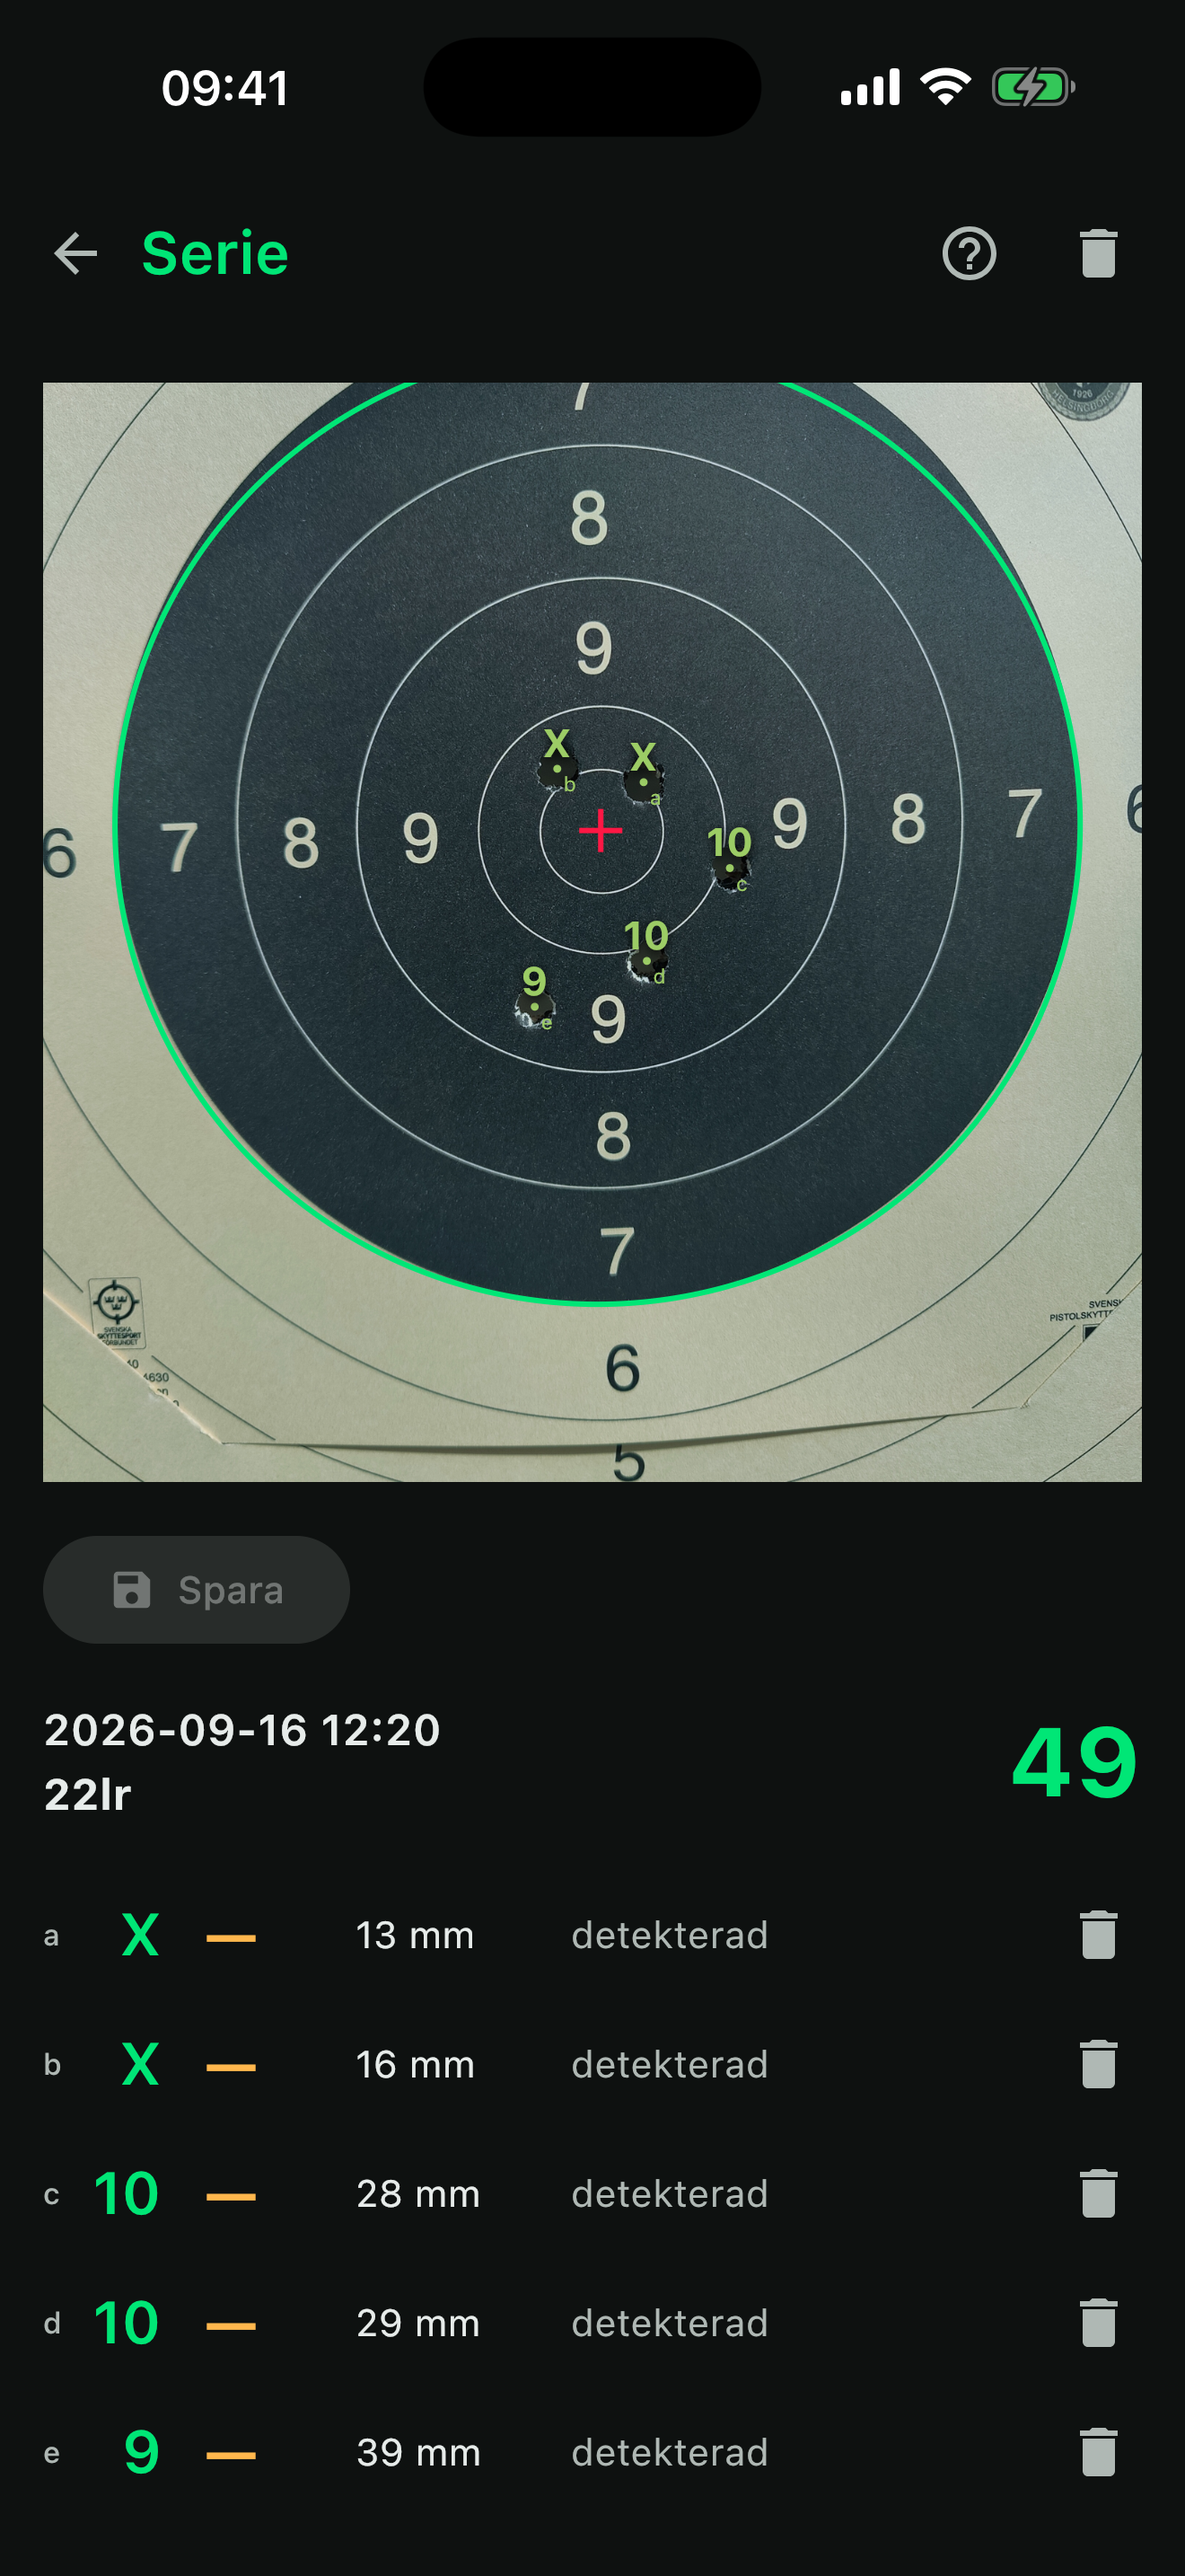
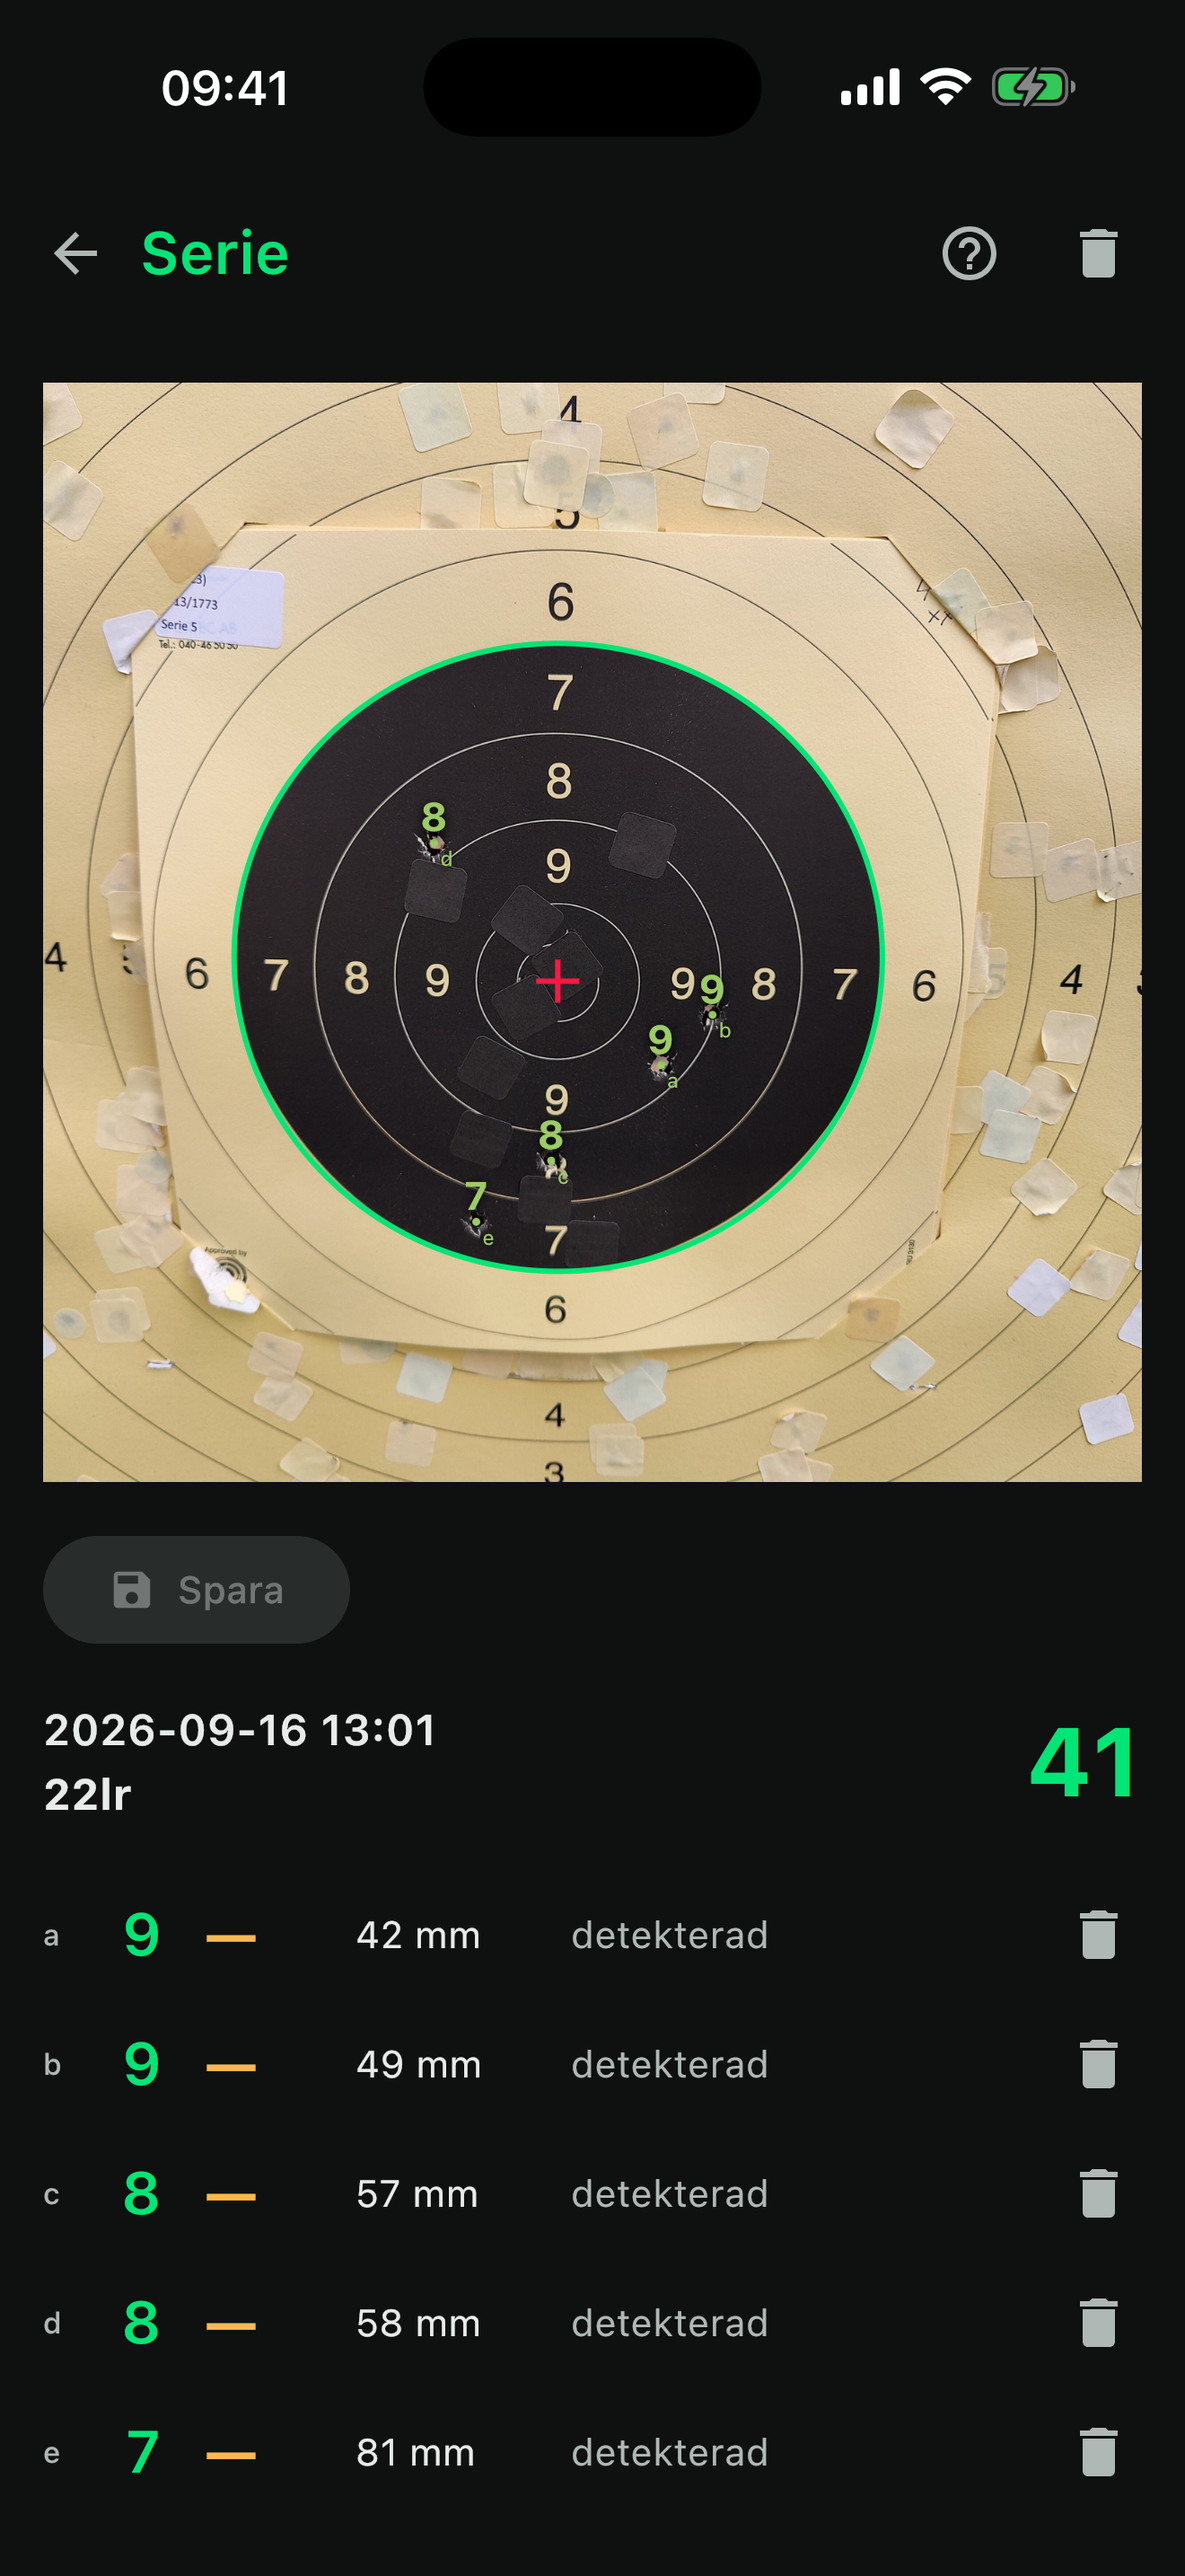
App Store: reshoot 02-serie.png with the target fully framed
The previous replacement framed the target badly — the black disk ran off
the photo edge. Reshot on the simulator from a picker image whose whole
black centre is inside the frame: 41 p (9 9 8 8 7). On the shipping PNG all
36 rays out of the red centre reach the black edge (0 skipped; the old shot
skipped 7), and the green 6/7 ring sits a median +4 px / worst +6 px off it
on a 326-379 px radius.

The ASC push is refused while 1.7.0 is WAITING_FOR_REVIEW — Apple locks a
submitted version's assets. Spaceship counts that state as editable, so the
failure surfaces only as a screenshot-delete error; the new `state` lane
prints the real app_store_state and `pull_back` cancels the submission so
the listing can be updated and re-submitted.

Claude-Session: https://claude.ai/code/session_01T2fnEK7bqfhXzvSH96ng2L

diff --git a/PLAN.md b/PLAN.md
@@ -219,6 +219,7 @@ Calibers: `22lr, 32, 38, 357, 45, 44, 9mm, 10mm` plus `-` (none, default).
 | 97 | Release 1.7.0 (10) (`/release` 2026-09-16) — notes written against **1.5.0**, the last public release (1.6.0 (9) reached the internal track but was never promoted), so they cover the new ring detection, typed scores, the 6/7 viewfinder labels, Historik day grouping, the Statistik tabs/filters, the icon and the five-hole cap; iOS marketing version + TestFlight notes bumped alongside; the four Play phone screenshots retaken on 34282ee3, and both tablet sets regenerated from them the way the repo has always built them (the phone shot pasted unscaled on an app-background canvas: 7" 1620x2880 at x=90, 10" 2160x3840 at 360,480) — no tablet and no emulator needed; the four App Store screenshots retaken the same day on the iPhone 17 Pro Max simulator (1320x2868, `idb ui tap` in points + `simctl io screenshot`, Debug build against the dev backend) and flattened to RGB, since App Store Connect rejects PNGs with an alpha channel | done 2026-09-16 — AAB built and signed (139 MB), commit 832b729, tag v1.7.0 pushed; the user ran both Play tasks (the classifier denies my uploads): build 10 is in track 'internal' and the four new phone screenshots are live on the sv-SE listing. The user ran `publishReleaseListing` again 2026-09-16, so both tablet sets (7" and 10") are live on the listing too. The App Store side went out the same day: iOS 1.7.0 is on TestFlight as **build 11** (`project.yml` said 10, but ASC had already consumed 10, so the beta lane bumped past it — project.yml now says 11), and `fastlane metadata` pushed the four screenshots + Swedish notes and attached build 11 to version 1.7.0. That push first died with `invalid byte sequence in US-ASCII`: `scripts/mac.sh` sets no locale, so Ruby came up US-ASCII and deliver choked on the Swedish text — hence the new `scripts/mac-metadata.sh`, which exports `LANG`/`LC_ALL` the way `mac-beta.sh` already did. Only the App Privacy questionnaire (ASC UI, no public API) now stands between this and `fastlane release`. Promotion to production is still a manual step in Play Console |
 | 98 | App Store `02-serie.png` showed the green 6/7 ring badly misplaced (user spotted it in the live store listing 2026-09-16) | done 2026-09-16 — **not a code bug**: `GeometryDto` is persisted per series (`series/SeriesDtos.kt:89`) and `SeriesDetailScreen:232` draws `series.geometry?.ring()` without ever recomputing, so a screenshot of a 2026-09-10 dev series still showed the pre-task-88 `refine67ToEdge` fit. Measured the old shot from the red centre outward: the ring sat ~106 px (≈20% of radius) inside the black edge on three of four axes, tracking a printed ring line between the 7 and 8 digits. Rescanned the same target on the simulator (Debug 1.7.0 = probe-disk fit) → 49 p (X X 10 10 9); the new ring measures **+2.7 px mean, 18 px worst (3.3% of a 537 px radius)** against the true 6/7 edge over 29 rays. `02-serie.png` replaced (flattened to RGB) and pushed to ASC with the new `scripts/mac-metadata.sh`; build 11 re-attached to 1.7.0. `04-historik.png` was retaken in the same round (user 2026-09-16: it still listed only the old series) — it now shows three day groups, all expanded, with the new 49 p series on top, which also advertises the day grouping better than the old two-day shot. `01-hem.png` and `03-statistik.png` were unaffected. Lesson: a store screenshot must come from a series scanned on the current build |
 | 99 | Submit iOS 1.7.0 for App Store review (the user published the App Privacy questionnaire 2026-09-16 and confirmed the submission) | done 2026-09-16 — `fastlane release` on the Mac: screenshots re-uploaded (4 kept, 0 duplicates), build 11 selected, content rights declared, **"Successfully submitted the app for review"**. `automatic_release: false`, so Apple's approval does not publish it — the user releases manually in ASC. Like the other Mac lanes it needs `LANG`/`LC_ALL=en_US.UTF-8`, otherwise deliver dies on the Swedish text. Full log on the Mac at `/tmp/release.log` |
+| 100 | App Store `02-serie.png`: the replacement shot from row 98 framed the target badly — the black disk ran off the photo edge (user 2026-09-16: "you litteraly took one of the worst screenshots") | done 2026-09-16 — reshot on the simulator from a picker image whose whole black centre sits inside the frame: 41 p (9 9 8 8 7), 2026-09-16 13:01. Framing verified numerically rather than by eye — on the shipping PNG all **36 rays out of the red centre reach the black edge, 0 skipped** (the 49 p shot skipped 7, which is exactly the defect the user saw). Ring accuracy on that same file: median **+4 px**, worst +6 px on a 326-379 px radius (1.7%); the one +50 px ray is a light repair patch painted on the black at that angle stopping the edge scan early, not a ring error. **Not on ASC yet**: the metadata push was refused with `Failed verification of all screenshots deleted... 4 screenshot(s) still exist`, because 1.7.0 is `WAITING_FOR_REVIEW` (row 99) and Apple locks a submitted version's assets. Not a script bug and nothing was modified on ASC — deliver dies before uploading. The trap: spaceship counts WAITING_FOR_REVIEW among its *editable* states, so `get_edit_app_store_version` succeeds and `dedupe_screenshots` happily lists the set; only the delete fails. New `fastlane state` lane prints each version's real `app_store_state` so this is one command to check. Replacing the shot therefore needs the submission pulled back and re-submitted — awaiting the user's call; the App Store listing is not public yet (iTunes lookup: the app has never been released, 1.7.0 is the first submission), so nothing user-facing is wrong today. Lesson for the next store shot: pick the picker image by framing first, and treat "rays skipped" in the ring measurement as a framing failure, not a measurement detail |
 | 9 | HTTPS for the backend (queued 2026-09-06 as "if the backend ever leaves the LAN") | done 2026-09-07 — `https://markera.duckdns.org` via the Mac mini's host Caddy (block appended over ssh, backup `Caddyfile.bak-20260907`); container bound to 127.0.0.1:8090; app default URL switched, cleartext config removed |
 
 ## API (server)
